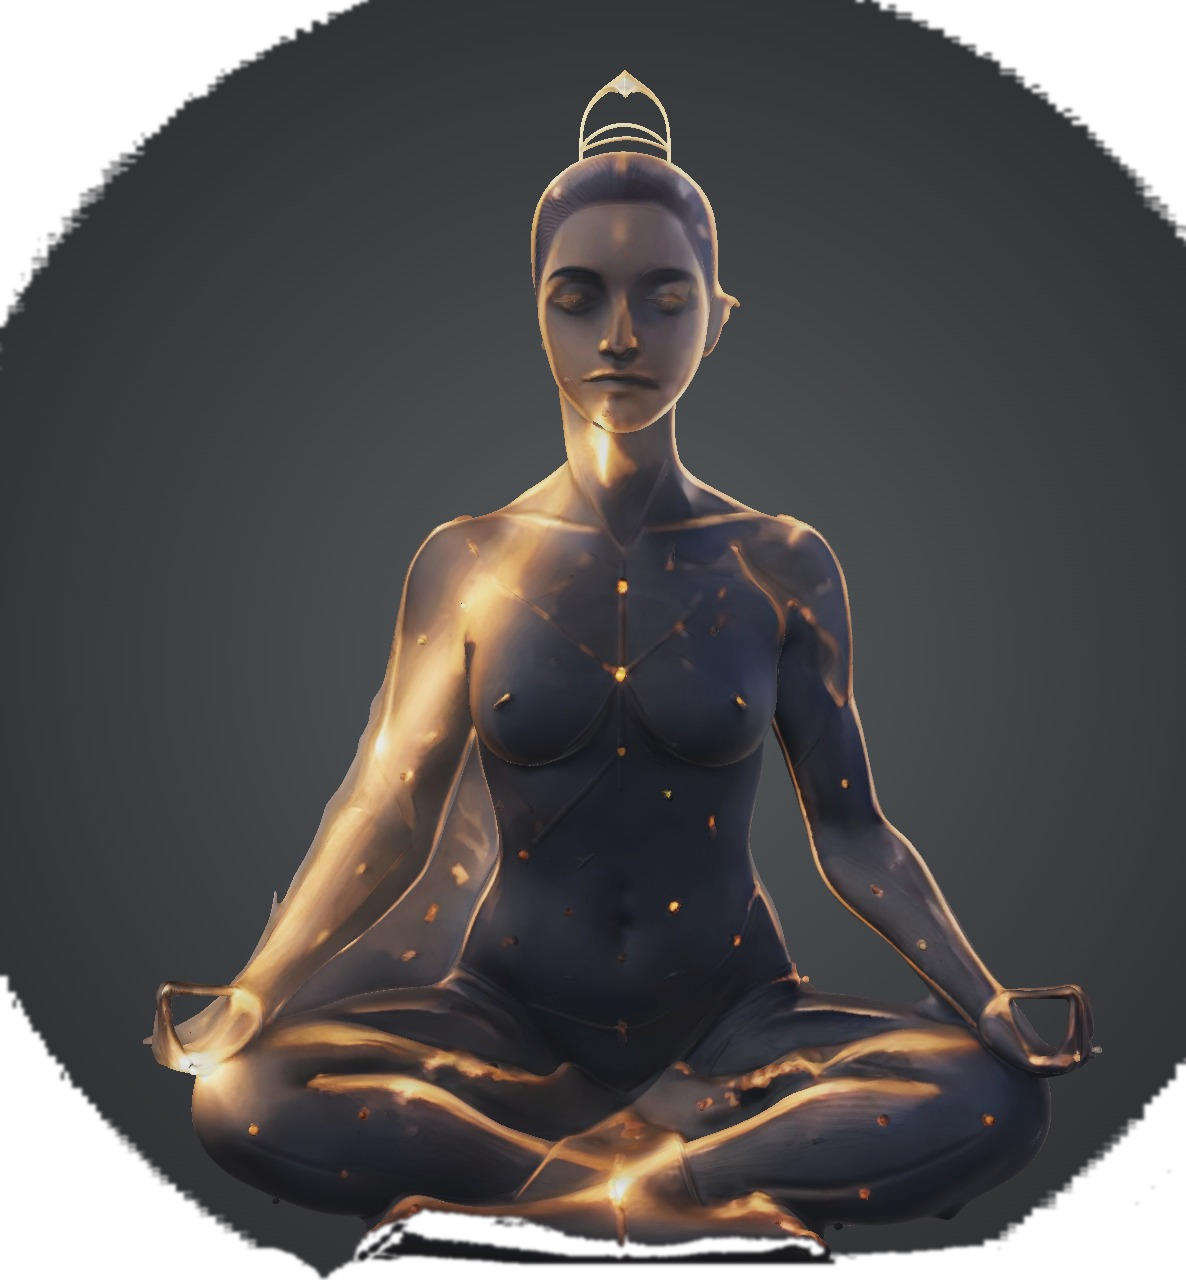
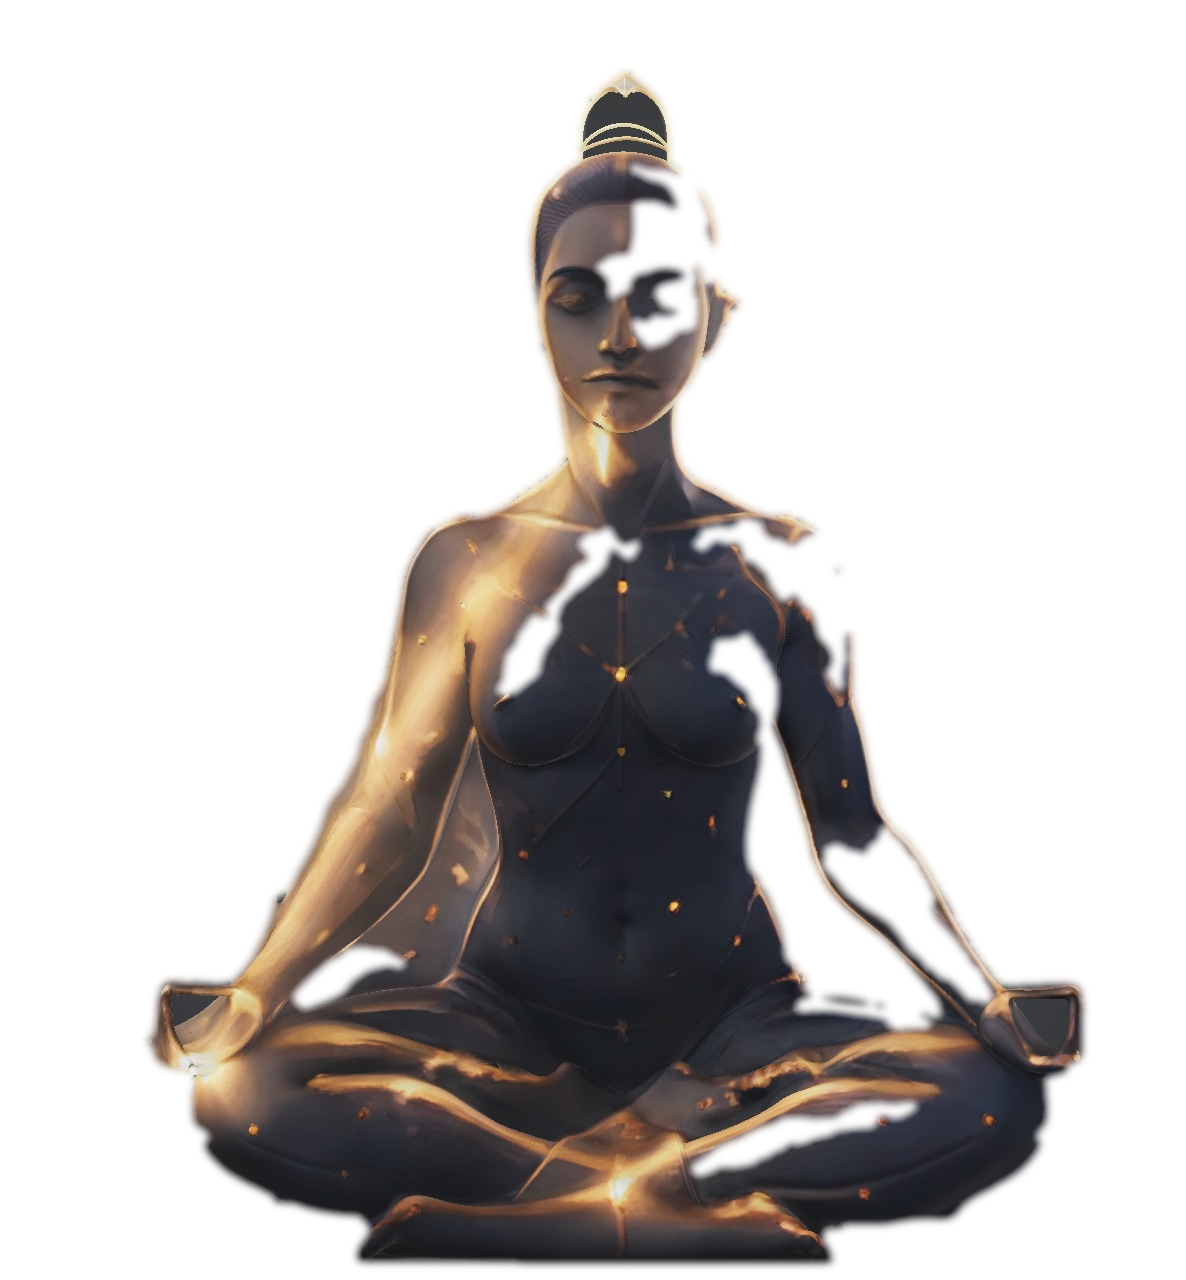
Cut the seated woman cleanly onto the indigo field.
The studio gray is removed with a feathered matte, and the star tetrahedron is centered on her body axis so it frames her instead of spilling past the silhouette.

diff --git a/lib/features/merkaba/presentation/merkaba_painter.dart b/lib/features/merkaba/presentation/merkaba_painter.dart
@@ -55,13 +55,15 @@ class MerkabaFieldPainter extends CustomPainter {
     final woman = _womanRect(size);
     if (woman.width <= 0 || woman.height <= 0) return;
 
+    // Heart glow sits on the chest. The geometry shares her vertical axis
+    // and is centered so the star frames the whole seated figure.
     final heart = Offset(
-      woman.left + woman.width * 0.5,
-      woman.top + woman.height * 0.4,
+      woman.left + woman.width * _axisX,
+      woman.top + woman.height * _heartY,
     );
     final body = Offset(
-      woman.left + woman.width * 0.5,
-      woman.top + woman.height * 0.5,
+      woman.left + woman.width * _axisX,
+      woman.top + woman.height * _bodyY,
     );
     final sceneIndex = merkabaScenes.indexOf(frame.scene);
     final breath = reduceMotion ? 0.62 : _breath(frame);
@@ -70,7 +72,7 @@ class MerkabaFieldPainter extends CustomPainter {
     _paintHeart(canvas, heart, woman.height, breath, sceneIndex, sceneT);
     _paintStar(canvas, body, woman, sceneIndex, sceneT, breath);
     _paintRibbons(canvas, body, woman, sceneIndex, sceneT, breath);
-    _paintMerkaba(canvas, heart, woman, sceneIndex, sceneT, breath);
+    _paintMerkaba(canvas, body, woman, sceneIndex, sceneT, breath);
     _paintMandala(canvas, heart, woman, sceneIndex, sceneT);
   }
 
@@ -132,7 +134,7 @@ class MerkabaFieldPainter extends CustomPainter {
     final fade = sceneIndex == 2 ? (1 - sceneT / 0.28).clamp(0.0, 1.0) : 1.0;
     if (fade <= 0) return;
     final pulse = draw >= 1 && !reduceMotion ? 1 + breath * 0.035 : 1.0;
-    final radius = woman.height * 0.4 * pulse;
+    final radius = woman.height * 0.30 * pulse;
     final path = _starPath(body, radius);
     _stroke(canvas, path, 0.82 * fade, draw);
   }
@@ -161,8 +163,8 @@ class MerkabaFieldPainter extends CustomPainter {
     for (var ribbon = 0; ribbon < 3; ribbon++) {
       final path = _ribbon(
         body,
-        woman.width * 0.34 * reach,
-        woman.height * (0.22 + ribbon * 0.04) * reach,
+        woman.width * 0.26 * reach,
+        woman.height * (0.16 + ribbon * 0.03) * reach,
         turn + ribbon * 2.05,
       );
       _stroke(canvas, path, 0.42 * opacity, 1);
@@ -171,7 +173,7 @@ class MerkabaFieldPainter extends CustomPainter {
 
   void _paintMerkaba(
     Canvas canvas,
-    Offset heart,
+    Offset center,
     Rect woman,
     int sceneIndex,
     double sceneT,
@@ -182,12 +184,12 @@ class MerkabaFieldPainter extends CustomPainter {
     if (built <= 0) return;
     final fade = sceneIndex == 5 ? (1 - sceneT).clamp(0.0, 1.0) : 1.0;
     if (fade <= 0) return;
-    final scale = sceneIndex == 4 ? 1 + breath * 0.12 : 1 + breath * 0.025;
-    final radius = woman.shortestSide * 0.46 * scale;
+    final scale = sceneIndex == 4 ? 1 + breath * 0.08 : 1 + breath * 0.02;
+    final radius = woman.height * 0.36 * scale;
     final spin = _spin(frame);
     _drawTetra(
       canvas: canvas,
-      center: heart,
+      center: center,
       radius: radius,
       rotation: spin,
       pointUp: false,
@@ -196,7 +198,7 @@ class MerkabaFieldPainter extends CustomPainter {
     );
     _drawTetra(
       canvas: canvas,
-      center: heart,
+      center: center,
       radius: radius,
       rotation: -spin,
       pointUp: true,
@@ -351,6 +353,15 @@ class MerkabaFieldPainter extends CustomPainter {
     final t = into.clamp(0.0, sceneLength);
     return settled + rate * t * (1 - t / (2 * sceneLength));
   }
+
+  /// Vertical centerline through the heart, as a fraction of the portrait.
+  static const double _axisX = 0.50;
+
+  /// Chest, where the heart glow sits.
+  static const double _heartY = 0.37;
+
+  /// Mid-body, so the tetrahedron frames crown and seat together.
+  static const double _bodyY = 0.50;
 
   Rect _womanRect(Size size) {
     final boxAspect = size.width / size.height;
